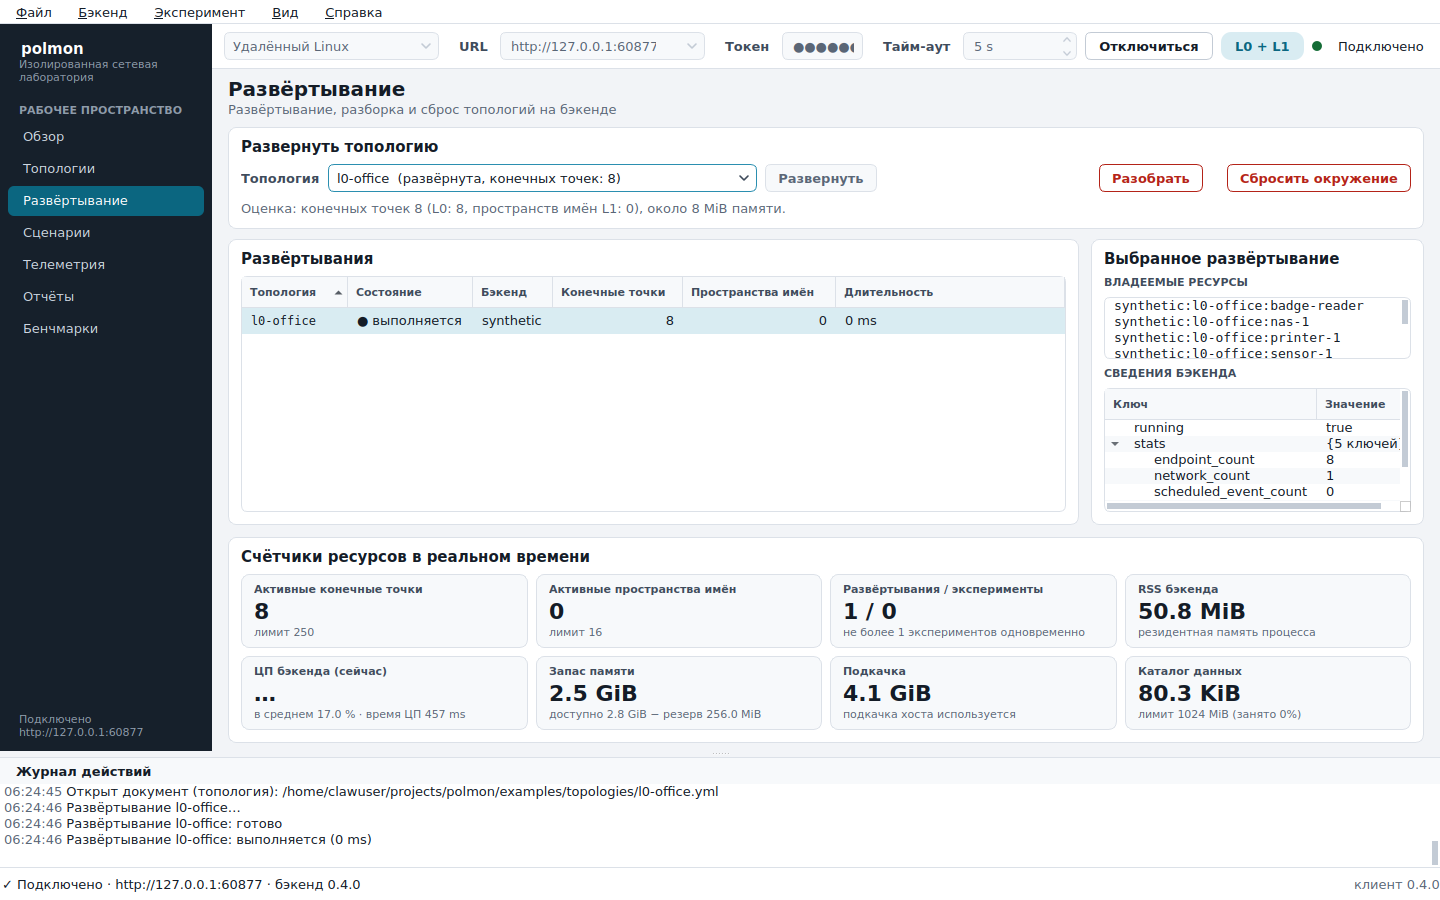
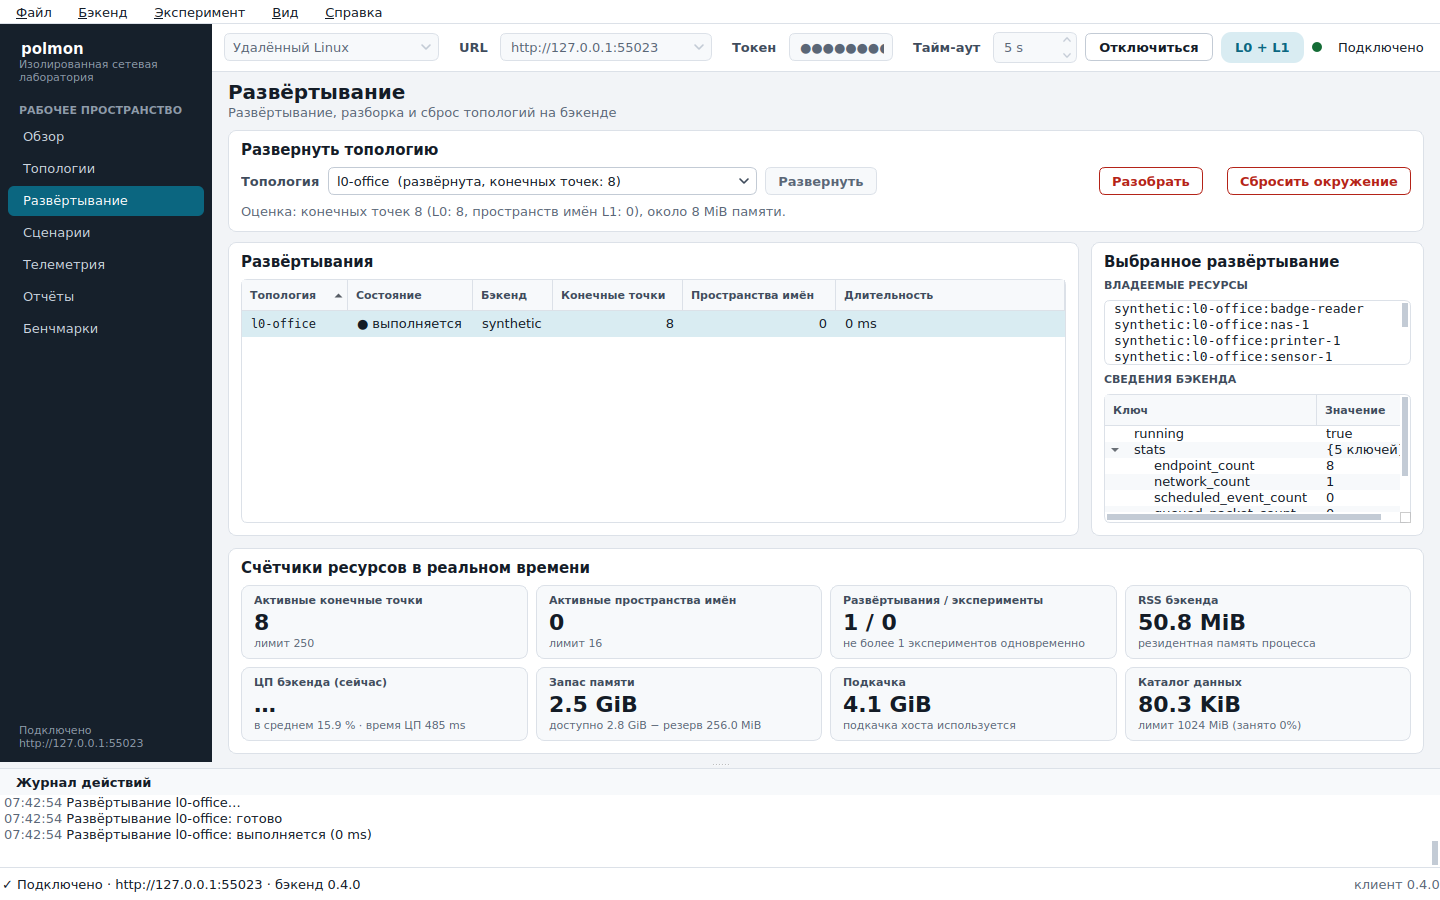
feat(client): usable on 1366x768 screens; pages scroll instead of clipping
- Each page sits in a scroll area whose host reports the page's minimum size (a scroll area
  would otherwise size wrapping layouts by their preferred height and scroll pages that fit).
  At 1440x900 and above nothing scrolls — the fit test now also checks the scroll bars with a
  banner shown on every page — and the window's own minimum fits 1366x768 in both languages,
  disconnected and connected (the URL field shrinks to 140 px but prefers a whole loopback URL;
  the token field is capped; the log dock starts five lines tall).
- MainWindow.minimum_size_for(page) asks Qt's layout for the window a page needs;
  --smoke-start reports the largest over all pages as before.
- GUI tests delete each window after its test: closed windows stayed alive and every later
  theme.apply() re-polished them (suite 99 s -> 75 s). The refusal-liveness test waits
  100 ms after the refusal instead of racing a loopback refusal against a 20 ms timer.

diff --git a/src/polmon/client/mainwindow.py b/src/polmon/client/mainwindow.py
@@ -13,7 +13,7 @@ from datetime import datetime
 from pathlib import Path
 
 from PySide6 import __version__ as pyside_version
-from PySide6.QtCore import QByteArray, QSettings, Qt, QTimer, QUrl, qVersion
+from PySide6.QtCore import QByteArray, QSettings, QSize, Qt, QTimer, QUrl, qVersion
 from PySide6.QtGui import QAction, QActionGroup, QCloseEvent, QDesktopServices, QKeySequence
 from PySide6.QtWidgets import (
     QAbstractItemView,
@@ -31,6 +31,8 @@ from PySide6.QtWidgets import (
     QMainWindow,
     QMessageBox,
     QPlainTextEdit,
+    QScrollArea,
+    QSizePolicy,
     QStackedWidget,
     QVBoxLayout,
     QWidget,
@@ -70,6 +72,7 @@ ACCESSIBLE_KINDS = (
     QComboBox,
     QAbstractSpinBox,
     QPlainTextEdit,
+    QScrollArea,
     QAbstractItemView,
 )
 POLL_INTERVAL_MS = 3000
@@ -155,11 +158,20 @@ class ConnectionBar(QFrame):
         self.url_box.setObjectName("backendUrl")
         self.url_box.setEditable(True)
         self.url_box.setInsertPolicy(QComboBox.InsertPolicy.NoInsert)
-        self.url_box.setMinimumWidth(205)
+        # Prefers a whole loopback URL (about 24 characters) but shrinks to 140 px, which keeps
+        # the window within a 1366-px laptop screen.
+        self.url_box.setSizeAdjustPolicy(
+            QComboBox.SizeAdjustPolicy.AdjustToMinimumContentsLengthWithIcon
+        )
+        self.url_box.setMinimumContentsLength(24)
+        self.url_box.setMinimumWidth(140)
+        self.url_box.setMaximumWidth(280)
+        self.url_box.setSizePolicy(QSizePolicy.Policy.Expanding, QSizePolicy.Policy.Fixed)
         bind_tip(self.url_box, "connection.url.tip")
         self.url = self.url_box.lineEdit()
         self.url.setText(DEFAULT_URL)
         self.remote_actions.append(self.addWidget(self.url_box))
+        self._layout.setStretchFactor(self.url_box, 4)  # spare width goes to the URL first
         self.remote_actions.append(self.addWidget(label("connection.token", name="fieldLabel")))
         self.token = QLineEdit()
         self.token.setObjectName("apiToken")
@@ -167,7 +179,7 @@ class ConnectionBar(QFrame):
         bind(self.token, "setPlaceholderText", "connection.token.placeholder")
         bind_tip(self.token, "connection.token.tip")
         self.token.setMinimumWidth(80)
-        self.token.setMaximumWidth(140)
+        self.token.setMaximumWidth(104)
         # A long token filled in without focus (restored, pasted by a script) shows its start
         # instead of a clipped tail.
         self.token.textChanged.connect(
@@ -182,6 +194,7 @@ class ConnectionBar(QFrame):
         self.timeout.setDecimals(0)
         self.timeout.setSuffix(" s")  # unit symbols are not translated
         self.timeout.setValue(DEFAULT_TIMEOUT)
+        self.timeout.setFixedWidth(84)  # "120 s" and the arrows
         bind_tip(self.timeout, "connection.timeout.tip")
         self.addWidget(self.timeout)
         self.connect_button = primary_button(
@@ -195,7 +208,7 @@ class ConnectionBar(QFrame):
         )
         self.log_button.setEnabled(False)
         self.local_actions = [self.addWidget(self.log_button)]
-        self._layout.addStretch(1)
+        self._layout.addStretch(0)  # takes only what the URL field (stretch 4) leaves
         self.fidelity = label(name="fidelity")
         self.fidelity.setObjectName("fidelity")
         self.fidelity.hide()
@@ -210,6 +223,27 @@ class ConnectionBar(QFrame):
     def addWidget(self, widget: QWidget) -> QWidget:  # noqa: N802 - mirrors QToolBar's API
         self._layout.addWidget(widget)
         return widget
+
+
+class PageHost(QWidget):
+    """Holds a page inside its scroll area and reports the page's *minimum* size: a scroll area
+    otherwise sizes a wrapping layout by its preferred height for the width and would scroll
+    pages that fit."""
+
+    def __init__(self, page: QWidget) -> None:
+        super().__init__()
+        self.page = page
+        page.setParent(self)
+
+    def minimumSizeHint(self) -> QSize:  # noqa: N802 - Qt API
+        return self.page.minimumSizeHint().expandedTo(self.page.minimumSize())
+
+    def sizeHint(self) -> QSize:  # noqa: N802 - Qt API
+        return self.minimumSizeHint()
+
+    def resizeEvent(self, event) -> None:  # noqa: ANN001, N802 - Qt API
+        self.page.setGeometry(self.rect())
+        super().resizeEvent(event)
 
 
 class MainWindow(QMainWindow):
@@ -264,10 +298,21 @@ class MainWindow(QMainWindow):
         self.navigation.setVerticalScrollBarPolicy(Qt.ScrollBarPolicy.ScrollBarAlwaysOff)
         self.stack = QStackedWidget()
         self.pages: dict[str, Page] = {}
+        self._page_order: list[Page] = []
+        self.page_scrolls: dict[str, QScrollArea] = {}
         for page_class in PAGES:
             page = page_class(self.context)
             self.pages[page.key] = page
-            self.stack.addWidget(page)
+            self._page_order.append(page)
+            # A screen smaller than the page's minimum (below 1440x900) scrolls instead of
+            # clipping; at 1440x900 and above no page needs to (tests/gui/test_language.py).
+            scroll = QScrollArea()
+            scroll.setObjectName("pageScroll")
+            scroll.setWidgetResizable(True)
+            scroll.setFrameShape(QFrame.Shape.NoFrame)
+            scroll.setWidget(PageHost(page))
+            self.page_scrolls[page.key] = scroll
+            self.stack.addWidget(scroll)
             item = QListWidgetItem()
             item.setData(Qt.ItemDataRole.UserRole, page.key)
             self.navigation.addItem(item)
@@ -554,17 +599,31 @@ class MainWindow(QMainWindow):
     def _page_changed(self, index: int) -> None:
         if index < 0:
             return
-        self.settings.setValue("window/page", self.stack.widget(index).key)
+        page = self._page_order[index]
+        self.settings.setValue("window/page", page.key)
         self.stack.setCurrentIndex(index)
-        page = self.stack.currentWidget()
-        if isinstance(page, Page):
-            page.activated()
+        page.activated()
 
     @property
     def current_page(self) -> Page:
-        page = self.stack.currentWidget()
-        assert isinstance(page, Page)
-        return page
+        return self._page_order[self.stack.currentIndex()]
+
+    def minimum_size_for(self, page: Page) -> QSize:
+        """The smallest window that shows ``page`` without scrolling: Qt's own layout answer
+        with the page area held at the page's minimum (sidebar, header, menus, log dock and
+        status bar at theirs)."""
+        needed = page.minimumSizeHint().expandedTo(page.minimumSize())
+        previous = self.stack.minimumSize()
+        self.stack.setMinimumSize(needed)
+        for layout in (self.centralWidget().layout(), self.layout()):
+            layout.invalidate()
+            layout.activate()
+        size = self.minimumSizeHint().expandedTo(self.minimumSize())
+        self.stack.setMinimumSize(previous)
+        for layout in (self.centralWidget().layout(), self.layout()):
+            layout.invalidate()
+            layout.activate()
+        return size
 
     # -- connection ---------------------------------------------------------------------------
 
@@ -1121,6 +1180,9 @@ class MainWindow(QMainWindow):
         state = settings.value("window/state")
         if isinstance(state, QByteArray):
             self.restoreState(state)
+        else:  # a compact log (five lines) leaves the page area its room; the operator can grow it
+            lines = self.log_view.fontMetrics().lineSpacing() * 5 + 2 * theme.SPACE["md"]
+            self.resizeDocks([self.log_dock], [lines], Qt.Orientation.Vertical)
         self._connection_mode_changed()
 
     def shutdown(self, wait_ms: int = 2000) -> bool:

diff --git a/tests/gui/test_language.py b/tests/gui/test_language.py
@@ -195,15 +195,25 @@ def test_runtime_switch_retranslates_every_screen_and_keeps_state(
 
 @pytest.mark.parametrize("language", ["ru", "en"])
 def test_window_fits_1440_by_900_on_every_page_with_banners(window, qtbot, language) -> None:
+    """At 1440x900 no page scrolls or clips, with a problem banner shown; on a smaller screen the
+    window still fits and the page area scrolls."""
     window.set_language(language)
     problem = Problem("problem.l0_only", i18n.Msg("backend.fidelity.l0_only"))
     for page in window.pages.values():
         page.banner.show_problem(problem)
-    for key in window.pages:
-        window.navigate(key)
-        qtbot.wait(10)
-        hint = window.minimumSizeHint().expandedTo(window.minimumSize())
-        assert hint.width() <= 1440 and hint.height() <= 900, (language, key, hint)
     window.resize(1440, 900)
     qtbot.wait(20)
-    assert (window.width(), window.height()) == (1440, 900)
+    for key, page in window.pages.items():
+        window.navigate(key)
+        qtbot.wait(10)
+        needed = window.minimum_size_for(page)
+        assert needed.width() <= 1440 and needed.height() <= 900, (language, key, needed)
+        if (window.width(), window.height()) == (1440, 900):  # a smaller screen clamps it
+            scroll = window.page_scrolls[key]
+            bars = scroll.horizontalScrollBar(), scroll.verticalScrollBar()
+            assert not any(bar.isVisible() for bar in bars), (language, key)
+    for mode in ("remote", "local"):  # a 1366x768 laptop shows the window; its pages scroll
+        window.bar.mode.setCurrentIndex(window.bar.mode.findData(mode))
+        qtbot.wait(10)
+        minimum = window.minimumSizeHint()
+        assert minimum.width() <= 1366 and minimum.height() <= 768, (language, mode, minimum)

diff --git a/tests/gui/test_window.py b/tests/gui/test_window.py
@@ -78,10 +78,13 @@ def test_unreachable_backend_is_explained_and_ui_stays_live(window, qtbot) -> No
     timer.start(20)
     connect(qtbot, window, url=f"http://127.0.0.1:{free_port()}", token="")
     qtbot.waitUntil(lambda: window.session.state is ConnectionState.DISCONNECTED, timeout=10_000)
+    # A refused loopback connection fails within milliseconds, often before a tick; blocking
+    # during a pending request is covered by test_slow_backend_times_out_without_blocking.
+    qtbot.wait(100)
     timer.stop()
     banner = window.pages["dashboard"].banner
     assert banner.isVisible() and banner.problem.key == "problem.refused"
-    assert ticks, "the event loop must keep running while connecting"
+    assert ticks, "the event loop must keep running through the refusal"
     assert "Traceback" not in log_text(window)
 
 
@@ -96,6 +99,8 @@ def test_local_preset_starts_connects_and_reaps_owned_backend(window, qtbot) -> 
     assert tr("connection.local_label") in window.status_text.text()
     assert window.bar.fidelity.isVisible()  # persistent fidelity indicator
     assert window.bar.log_button.isEnabled()
+    minimum = window.minimumSizeHint()  # the connected header (pill, log link) fits 1366 px
+    assert minimum.width() <= 1366 and minimum.height() <= 768, minimum
     recent = window.pages["dashboard"].recent_state  # "none yet", no longer "not connected"
     qtbot.waitUntil(lambda: recent._title.key == "dashboard.recent.empty", timeout=5_000)
     # Disconnecting stops the owned backend: styled as destructive, confirmed when it would

diff --git a/src/polmon/client/selftest.py b/src/polmon/client/selftest.py
@@ -210,10 +210,10 @@ def smoke_start(seconds: float, argv: list[str], stream=None) -> int:  # noqa: A
             # The largest minimum size over every page, in the UI language, on this platform's
             # real fonts: the window must fit a 1440x900 screen (docs/UI-GUIDE.md).
             width = height = 0
-            for key in window.pages:
+            for key, page in window.pages.items():
                 window.navigate(key)
-                hint = window.minimumSizeHint().expandedTo(window.minimumSize())
-                width, height = max(width, hint.width()), max(height, hint.height())
+                needed = window.minimum_size_for(page)  # without scrolling the page
+                width, height = max(width, needed.width()), max(height, needed.height())
             observed["minimum"] = f"{width}x{height}"
             observed["rss"] = resource_snapshot().process_rss_bytes
             window.shutdown(wait_ms=1000)

diff --git a/src/polmon/client/theme.py b/src/polmon/client/theme.py
@@ -281,6 +281,8 @@ QLabel#fidelity {{ border-radius: {r["pill"]}px; padding: 2px {s["sm"] + 2}px; f
                    background: {v["accent_soft"]}; color: {v["accent"]}; }}
 
 QWidget#page {{ background: {v["bg"]}; }}
+QScrollArea#pageScroll, QScrollArea#pageScroll > QWidget > QWidget {{ background: {v["bg"]};
+                                                                     border: none; }}
 QLabel#pageTitle {{ font-size: {t["title"]}px; font-weight: 600; color: {v["text"]}; }}
 QLabel#pageSubtitle {{ color: {v["text_muted"]}; }}
 QFrame#card {{ background: {v["surface"]}; border: 1px solid {v["border"]};

diff --git a/tests/gui/conftest.py b/tests/gui/conftest.py
@@ -202,6 +202,13 @@ def window(qtbot, tmp_path, monkeypatch):
     yield main
     main.shutdown(wait_ms=5000)
     set_confirm_handler(None)
+    # Delete the window now: a closed but living window would be re-polished by every later
+    # test's theme.apply(), making each set-up slower than the last.
+    from PySide6.QtCore import QCoreApplication, QEvent
+
+    main.close()
+    main.deleteLater()
+    QCoreApplication.sendPostedEvents(None, QEvent.Type.DeferredDelete)
     assert not i18n.missing, f"catalog keys missing: {sorted(i18n.missing)}"
 
 

diff --git a/docs/UI-GUIDE.md b/docs/UI-GUIDE.md
@@ -153,8 +153,10 @@ tiles show a caption (11/600), one metric (22/600) and one muted detail line.
   state), the page, the dockable activity log and the status bar (connection summary, busy
   indicator or operation progress with *Отменить*, client version).
 - **Page:** title and one-line subtitle, header actions on the right, one problem banner, then
-  cards. Everything fits 1440×900 in both languages with a banner shown
-  (`test_window_fits_1440_by_900_on_every_page_with_banners`).
+  cards. Every page fits 1440×900 in both languages with a banner shown and nothing scrolls
+  (`test_window_fits_1440_by_900_on_every_page_with_banners`; CI also checks the native
+  platforms through `--smoke-start`'s `minimum-size`). On a smaller screen the window still
+  fits 1366×768 — the URL field narrows and the page area scrolls instead of clipping.
 - **Card** (`Card`): title, optional muted hint, content. **KeyValueGrid**: label/value pairs in
   column pairs, long values in the first column, identifiers monospaced and never broken.
   **ResourceTiles**: live counters with sparklines. **Tables** (`make_table`): sortable,

diff --git a/CHANGELOG.md b/CHANGELOG.md
@@ -10,6 +10,9 @@ All notable changes are documented here. Versions follow Semantic Versioning.
   DejaVu Sans Mono, Liberation Mono or Menlo, whichever is installed); on Windows they fell back
   to the platform's fixed font or to the proportional UI font.
 - CI renders the Russian UI on `windows-latest` too (`ui-screenshots-windows` artifact).
+- The window fits a 1366×768 laptop screen: pages scroll when the window is smaller than a
+  page needs (at 1440×900 and above nothing scrolls), the URL field narrows, the log starts
+  five lines tall. The GUI test suite deletes each window after its test (about 25 % faster).
 - RESOURCE-BUDGET.md attributes the v0.4.0 client memory growth (denser widget tree and larger
   stylesheet; the UI language makes no difference).
 

diff --git a/docs/ui/SCREENSHOTS.md b/docs/ui/SCREENSHOTS.md
@@ -5,10 +5,10 @@ a real `polmon-backend` process with an API token, the unmodified main window, t
 `l0-office` example topology and the `office-sweep` scenario. CI regenerates the same
 set as the `ui-screenshots` artifact.
 
-- Generated: 2026-09-27 04:25 UTC
+- Generated: 2026-09-27 05:43 UTC
 - polmon 0.4.0, Qt 6.11.2, PySide6 6.11.2
 - Platform: `offscreen` on Linux 6.8.0-138-generic, window 1440×900
-- Experiment: `gui-20260927-062444-cfed`
+- Experiment: `gui-20260927-074251-c08b`
 - UI language: `ru`
 
 ## local-backend
